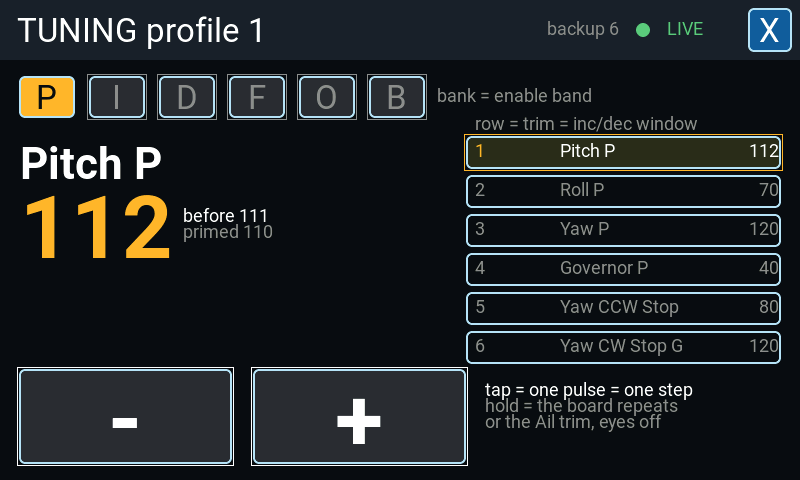
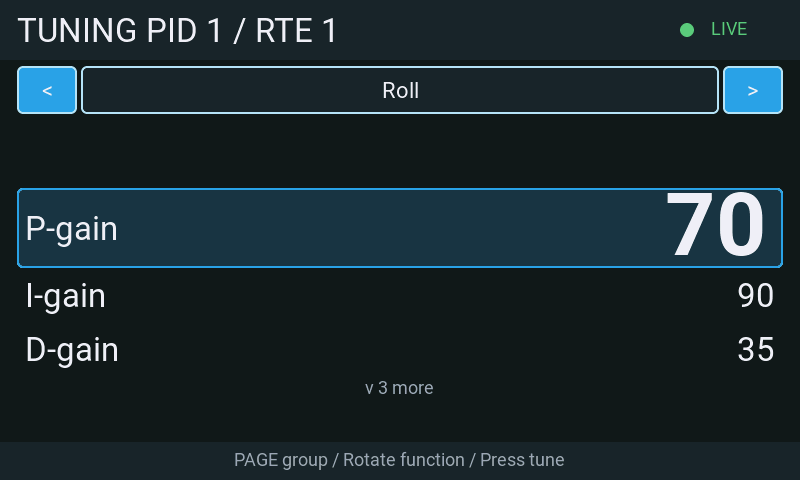
docs(dashboard): current in-flight tuning pictures for the air and value mode
The flight picture showed the former bank surface. It is replaced by
the current list, value mode gets a picture of its own, and the
post-flight section points at its picture.

diff --git a/docs/dashboard/inflight-tuning.md b/docs/dashboard/inflight-tuning.md
@@ -152,9 +152,7 @@ Nothing ends while a profile job, a pending return to the original profiles or a
 
 ### On the ground, before the flight
 
-![The ground surface: model check, FC slots, session, and the actions (an earlier layout)](../images/inflight/overlay-ground.png)
-
-The picture shows an earlier layout of the same contents; the text below describes the current one.
+![The ground surface: model check, FC slots, session, and the actions](../images/inflight/overlay-ground.png)
 
 One filled status panel shows **Model** (the setup verdict), **FC slots** (the number of parameters
 read from the board, plus skipped slots), and **Session** (the time this session's start values
@@ -288,11 +286,11 @@ restore must finish its writes and return), and **Read again** while that return
 session, its stored start values are checked on the SD card before the first profile is read
 (*Checking the saved session*).
 
-![The progress screen used after landing; on the ground the same progress runs inside the ground surface](../images/inflight/overlay-reading.png)
+![A read on the ground: its progress runs inside the status panel, the actions stay in place](../images/inflight/overlay-reading.png)
 
 A read or restore started from the post-flight screen takes its own progress screen with a
 **Reading** or **Restoring** title, so the change list it was started from is still there when it
-ends. The picture predates the current layout and also shows the former widget-zone surface.
+ends.
 
 The reachable set is the union of `adjMin..adjMax` from all PID-profile (function 2)
 and rate-profile (function 1) adjustment slots, capped to 1..6 and the FC-reported counts,
@@ -327,9 +325,9 @@ session's tracked parameters, not a full FC configuration backup.
 
 ### In the air
 
-The overlay uses a Rotorflight dark palette with a blue accent. The historical
-[flight screenshot](../images/inflight/overlay-live.png) shows the former bank surface;
-the image is retained as a reference and does not depict this interface.
+The overlay uses a Rotorflight dark palette with a blue accent.
+
+![In the air: the group as the title, the selected function with its value, its neighbours below](../images/inflight/overlay-live.png)
 
 The current group is the title, for example **Pitch**. Tapping it replaces the list with a
 picker of every group, two to a row, the current one highlighted. Tapping a group, or turning
@@ -360,6 +358,8 @@ five-second maximum hold; a lost release is bounded by that maximum. Values are 
 FC reports, never predicted changes. Under the value, **Start N / +/-difference** compares
 against the session's start value of the active PID/rate/global scope. An unknown start value
 leaves that line empty. The value is drawn in the largest font the radio has, on the left.
+
+![Value mode: the value with its start value and difference, the plus and minus targets](../images/inflight/overlay-value.png)
 Plus and minus are stacked in one column on the right, as large as the surface allows: plus on
 top in the accent blue, minus below in orange, so the two can be told apart without reading the
 glyph. The full-width name remains the
@@ -459,6 +459,8 @@ clears the filtered list; at least one parameter must remain selected in a filte
 same FC connected. The picker sends no MSP. Native acceptance of the controls remains pending.
 
 ### After landing
+
+![After landing: the changes of this session, with Continue tuning and Restore...](../images/inflight/overlay-after.png)
 
 The complete change list is grouped by **PID profile**, **rate profile**, then **Global**;
 each profile contains the same function groups as the flying list. Rows show SD start value,
